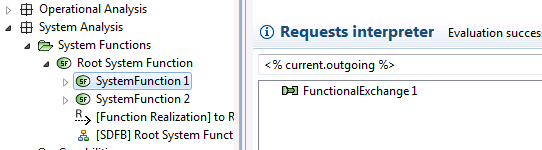
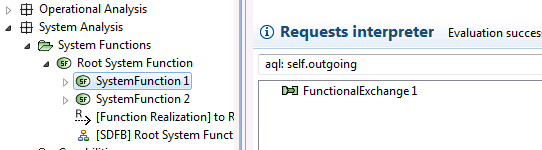
[1945] Migration to AQL - doc
Bug : 1945

Changed region(s): [[0.4723, 0.4, 0.738, 0.48]]

diff --git a/core/plugins/org.polarsys.capella.core.sirius.analysis/src/org/polarsys/capella/core/sirius/analysis/CapellaServices.java b/core/plugins/org.polarsys.capella.core.sirius.analysis/src/org/polarsys/capella/core/sirius/analysis/CapellaServices.java
@@ -38,6 +38,7 @@ import org.eclipse.sirius.business.api.helper.task.DeleteEObjectTask;
 import org.eclipse.sirius.business.api.preferences.SiriusPreferencesKeys;
 import org.eclipse.sirius.business.api.session.Session;
 import org.eclipse.sirius.business.api.session.SessionManager;
+import org.eclipse.sirius.business.api.session.danalysis.DAnalysisSession;
 import org.eclipse.sirius.common.tools.api.interpreter.IInterpreter;
 import org.eclipse.sirius.common.tools.api.interpreter.IInterpreterSiriusVariables;
 import org.eclipse.sirius.diagram.AbstractDNode;
@@ -65,6 +66,7 @@ import org.eclipse.sirius.ext.base.Option;
 import org.eclipse.sirius.query.legacy.business.internal.interpreter.EObjectServices;
 import org.eclipse.sirius.query.legacy.ecore.factories.EFactory;
 import org.eclipse.sirius.tools.api.interpreter.InterpreterUtil;
+import org.eclipse.sirius.viewpoint.DRepresentationDescriptor;
 import org.eclipse.sirius.viewpoint.DRepresentationElement;
 import org.eclipse.sirius.viewpoint.DSemanticDecorator;
 import org.eclipse.sirius.viewpoint.SiriusPlugin;
@@ -195,6 +197,23 @@ public class CapellaServices {
 	/** used by aql queries */ 
 	public List<DDiagramElementContainer> getAllContainersNew(EObject container) {
 		return getAllContainers(container);
+	}
+
+	// equivalent de <% (((current+current.~).ancestor[eClass.name=="DAnalysis"].nMinimize().put("aird") + (get("aird")+get("aird").~+get("aird").~.~+get("aird").~.~.~).put("airds") + get("airds")+get("airds").referencedAnalysis+get("airds").referencedAnalysis.referencedAnalysis+get("airds").referencedAnalysis.referencedAnalysis.referencedAnalysis).nMinimize()[eClass.name=="DAnalysis"]) %>
+	public static Collection<EObject> getAllDAnalysis(EObject eObject) {
+		Collection<EObject> result = new ArrayList<EObject>();
+		EObject source = eObject;
+		if (source instanceof DSemanticDecorator) {
+			source = ((DSemanticDecorator) source).getTarget();
+		}
+		if (source instanceof DRepresentationDescriptor) {
+			source = ((DRepresentationDescriptor) source).getTarget();
+		}
+		Session session = SessionManager.INSTANCE.getSession(source);
+		if (session instanceof DAnalysisSession) {
+			result.addAll(((DAnalysisSession) session).allAnalyses());
+		}
+		return result;
 	}
 	
 	@SuppressWarnings("rawtypes")
